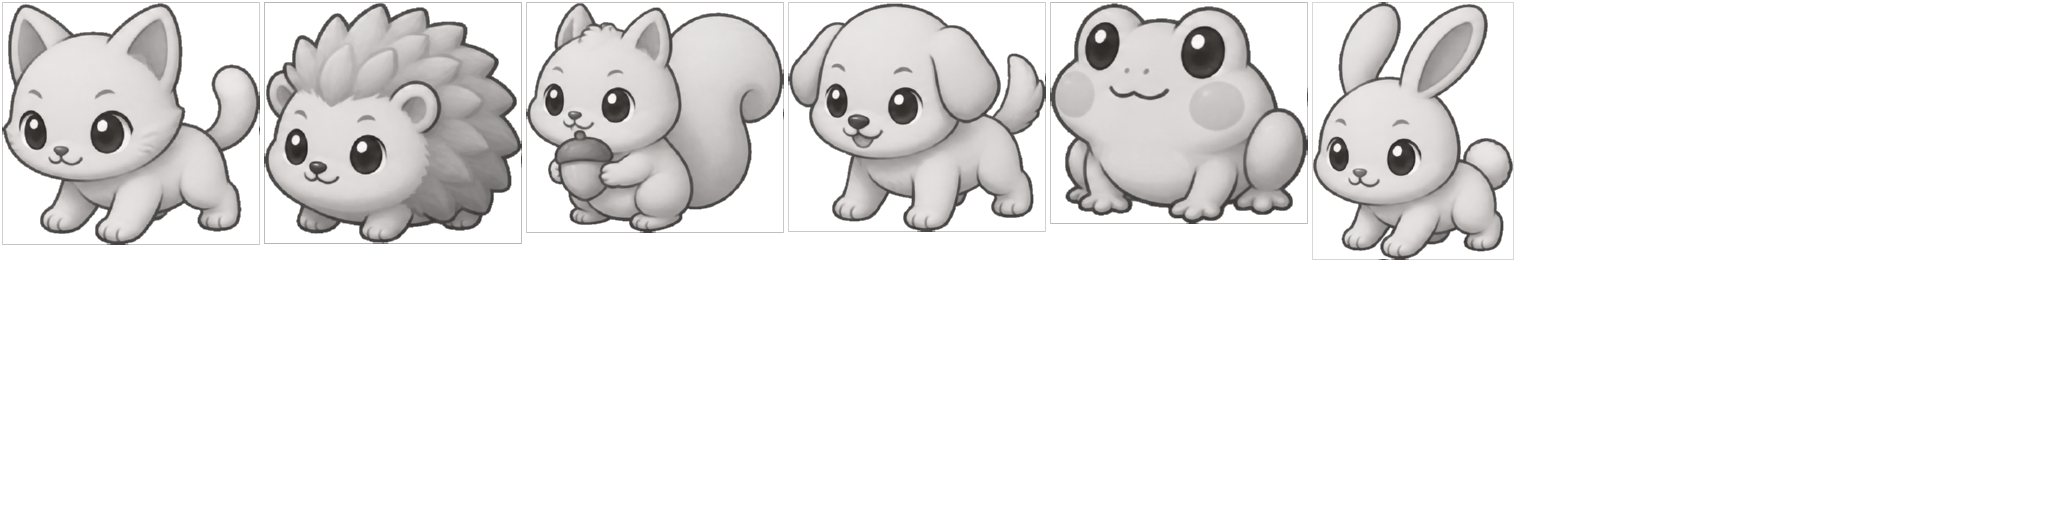
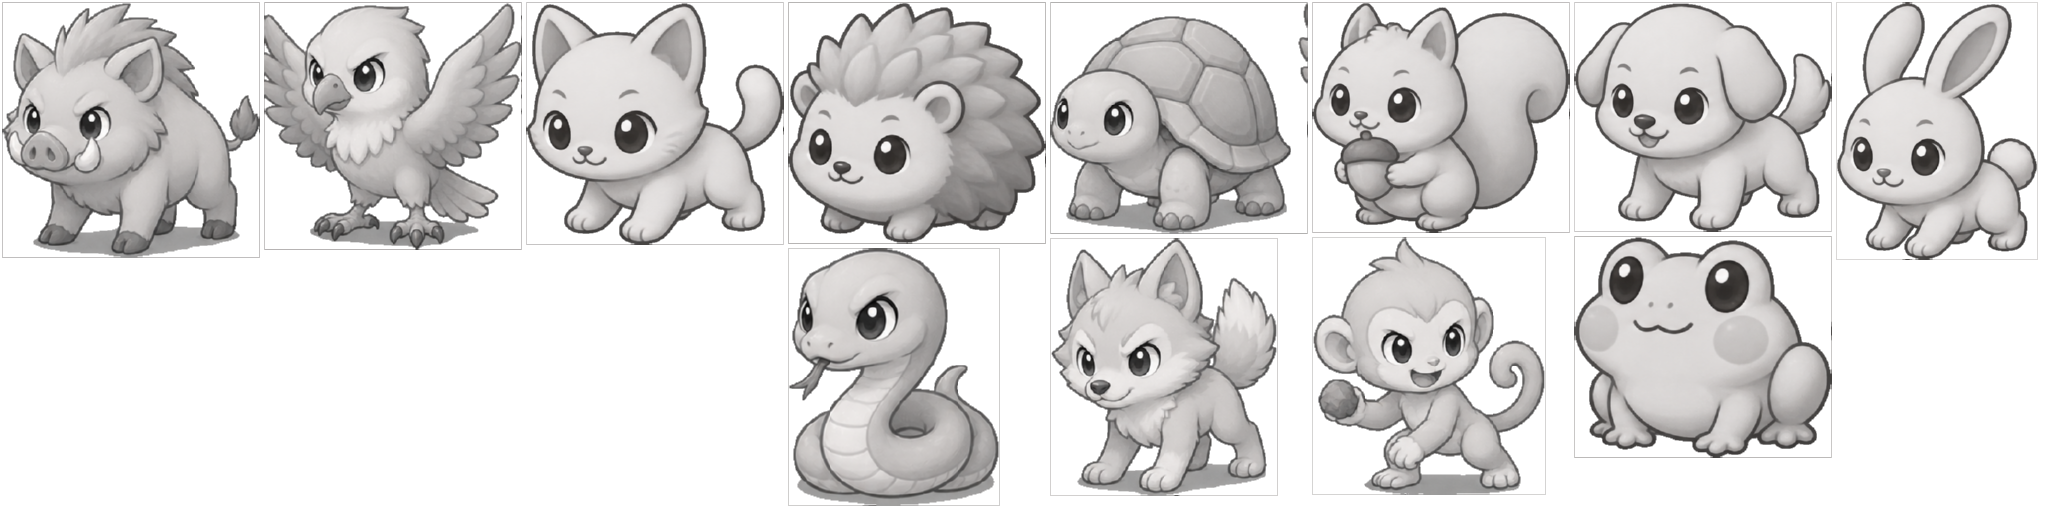
Add painted tier-2 monster art and elang
- SpriteCook pack: serigala, babi-hutan, ular, kera, kura-kura, elang (neutral grey,
  tinted by element in game)

diff --git a/apps/game/art/PROVENANCE.md b/apps/game/art/PROVENANCE.md
@@ -44,3 +44,5 @@ Prompt grid hewan Lv 1 (ringkas): ayam hutan jantan bergaya chibi (jengger merah
 Prompt grid dekorasi Lv 1 (ringkas): Lampu Jalan (tiang kayu gelap dengan lentera cahaya jiwa ungu), Patung Naga (naga purba emas melingkar di alas batu persegi), Air Mancur (kolam batu bundar dua tingkat, 2×2 ubin), Arena (ring pasir bundar dengan tribun kayu-batu rendah dan panji ungu-emas, 4×4 ubin); tanpa teks/karakter; desain orisinal. Lampu diskalakan seragam (lebar 64 px); sisanya lewat `pnpm art:iso`.
 
 Prompt grid monster tingkat 1 (ringkas, 16:9 → 2K, 14 kredit): enam makhluk chibi — kucing, anjing, landak, kelinci, tupai memegang biji ek, katak — dalam grid 3×2, tampak 3/4 menghadap kiri bawah, **tubuh abu-abu nyaris putih tanpa warna** agar diwarnai game sesuai elemen; mata gelap, garis tepi abu gelap; desain orisinal. Pendar dibuang (alpha < 160), dipangkas, diletakkan rata bawah di persegi 256 px → `art/monsters/<wujud>.png`. Game mewarnai dengan warna unsur pertama elemen (`monsterArt.ts → paintedMonster`).
+
+Prompt grid monster tingkat 2 (ringkas, 1:1, 8 kredit): serigala muda, babi hutan gempal bertaring kecil, ular melingkar berkepala besar, kera memegang batu untuk dilempar, kura-kura bertempurung kubah, dan elang muda bersayap terbentang (tingkat 3, mengisi sel ke-6); gaya, tampak, dan tubuh abu netral sama dengan grid tingkat 1; desain orisinal. Diproses sama seperti tingkat 1.
